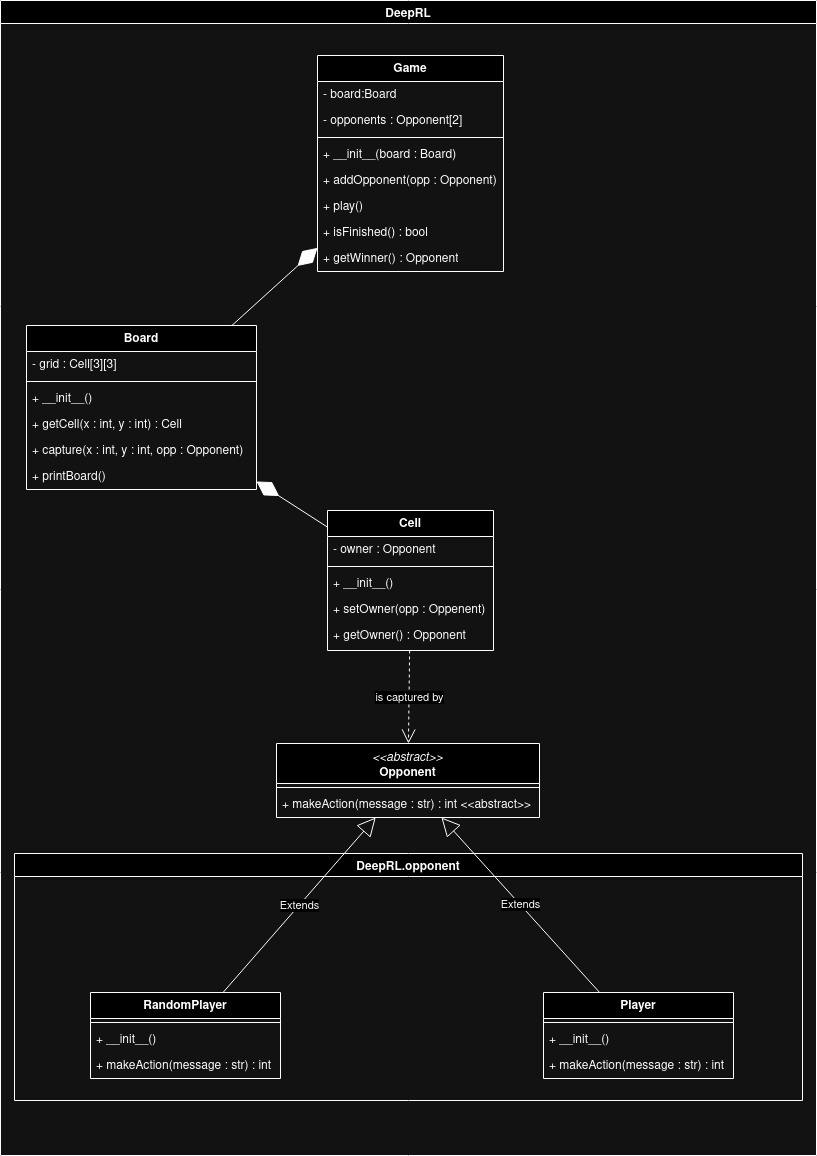
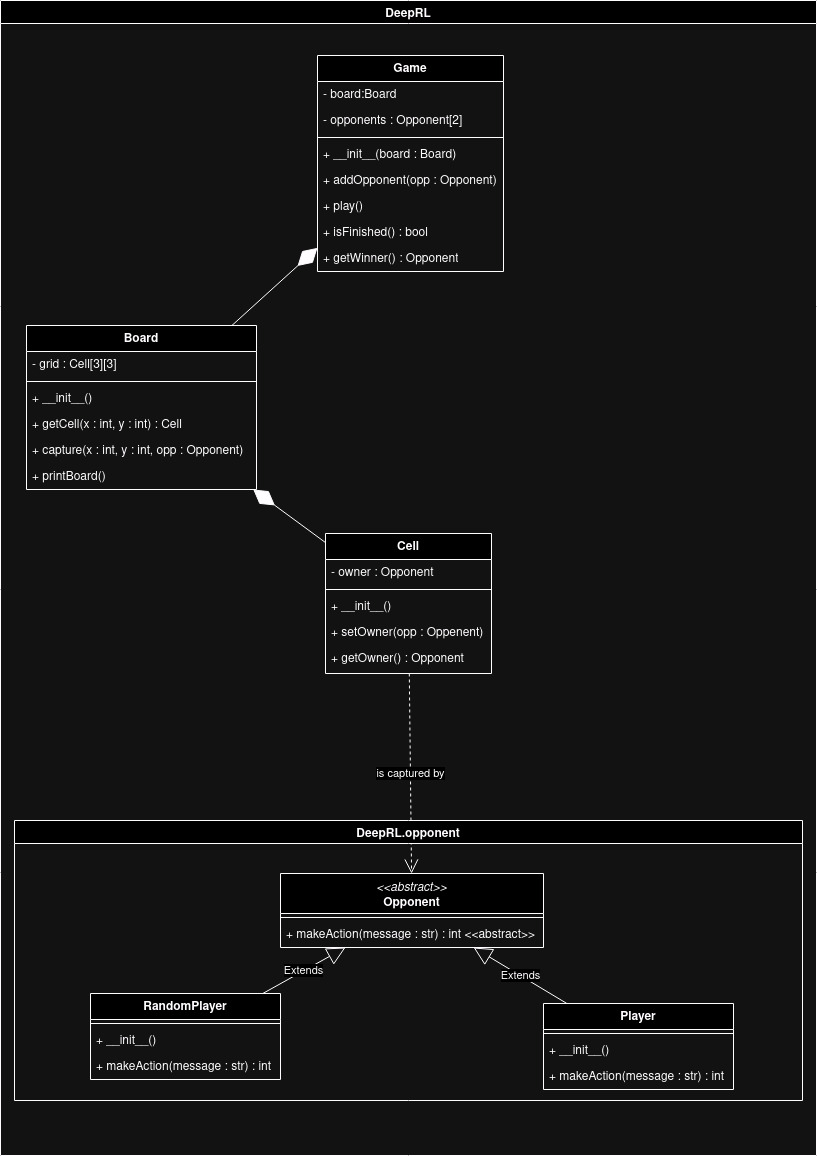
Changed file hierarchy to avoid relative imports + doc

diff --git a/src/DeepRL/opponent/RandomPlayer.py b/src/DeepRL/opponent/RandomPlayer.py
@@ -1,8 +1,21 @@
-from DeepRL.Opponent import Opponent
+import Opponent
 
 class RandomPlayer(Opponent) :
+    """
+    This class represents a player who plays randomly.
+    """
     def __init__() :
+        """
+        Creates a new RandomPlayer
+        """
         pass
     
     def makeAction(self, message) :
+        """
+        Permits a randomPlayer to make a random choice.
+        Parameters :
+            message : The message which is printed to permit making a choice
+        Returns :
+            A random integer.
+        """
         pass

diff --git a/src/DeepRL/opponent/Opponent.py b/src/DeepRL/opponent/Opponent.py
@@ -1,0 +1,17 @@
+from abc import abstractmethod
+
+class Opponent() :
+    """
+    This class represents opponents playing games.
+    """
+    
+    @abstractmethod
+    def makeAction(self, message) :
+        """
+        This method permits an opponent to make a decision
+        Paramaters :
+            message : a string printed to tell which decision has to be made
+        Returns :
+            an int representing the choice made
+        """
+        pass
